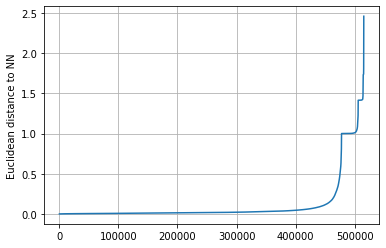
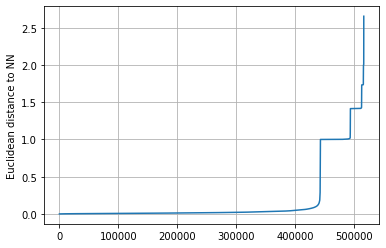
New minmax eps determined

diff --git a/analysis/DBSCAN_hyperparameter_analysis.py b/analysis/DBSCAN_hyperparameter_analysis.py
@@ -4,9 +4,9 @@ import numpy as np
 from sklearn.neighbors import NearestNeighbors
 from analysis_config import PREDICTION_VAR
 # %% Load data
-# ds_path = 'data/DS_reduced_and_dropped.csv'
+ds_path = 'data/DS_reduced_and_dropped.csv'
 # ds_path = 'data/DS_RAndD_minmax.csv'
-ds_path = 'data/DS_RAndD_normalized.csv'
+# ds_path = 'data/DS_RAndD_normalized.csv'
 print('[Loading data] Start:', ds_path)
 ds = pd.read_csv(ds_path, index_col='id')
 print('[Loading data] Done')
@@ -19,6 +19,6 @@ NN_model = NearestNeighbors(n_neighbors=2, n_jobs=-1).fit(feature_data)
 distances, indices = NN_model.kneighbors(feature_data)
 
 # %% Save distances
-# np.save('data/distances/DBSCAN_HP_distances.npy',distances)
+np.save('data/distances/DBSCAN_HP_distances.npy',distances)
 # np.save('data/distances/DBSCAN_HP_distances_minmax.npy',distances)
-np.save('data/distances/DBSCAN_HP_distances_normalized.npy',distances)
+# np.save('data/distances/DBSCAN_HP_distances_normalized.npy',distances)
